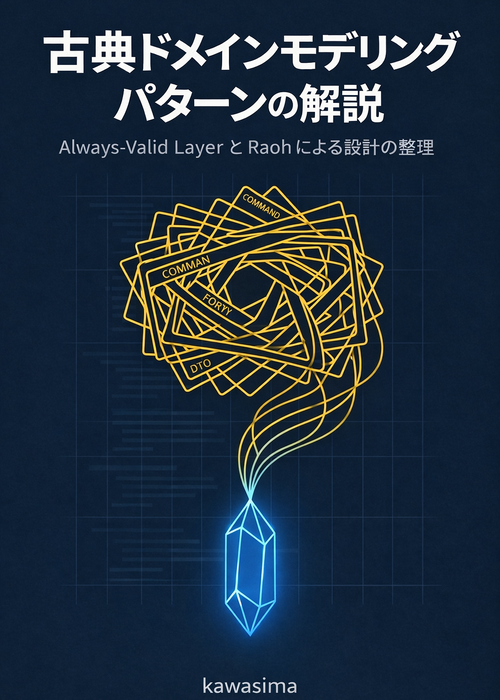
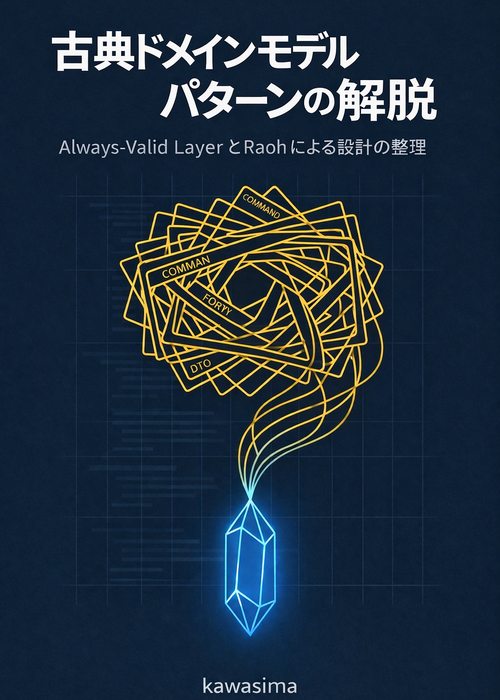
改善: ドキュメント内の「古典ドメインモデリングパターン」を「古典ドメインモデルパターン」に修正

Changed region(s): [[0.09, 0.03, 0.93, 0.24], [0.51, 0.27, 0.54, 0.3]]

diff --git a/books/ddd-detachment/part0-preface.md b/books/ddd-detachment/part0-preface.md
@@ -4,7 +4,7 @@ title: "はじめに"
 
 ## 本書について
 
-本書は、Java Web アプリケーションで広く使われている「古典ドメインモデリングパターン」——`@Entity` がドメインモデルを兼ね、Bean Validation がバリデーションを担い、レイヤー間を専用 DTO で詰め替えるという構成——で生じる「モデル増殖」「詰め替え過剰」「ドメインモデルの肥大化」という問題を診断し、解消するための設計書です。題材はミールス宅配サービスという架空のドメインで、実装のサンプルコードを通して段階的に考え方を示していきます。
+本書は、Java Web アプリケーションで広く使われている「古典ドメインモデルパターン」——`@Entity` がドメインモデルを兼ね、Bean Validation がバリデーションを担い、レイヤー間を専用 DTO で詰め替えるという構成——で生じる「モデル増殖」「詰め替え過剰」「ドメインモデルの肥大化」という問題を診断し、解消するための設計書です。題材はミールス宅配サービスという架空のドメインで、実装のサンプルコードを通して段階的に考え方を示していきます。
 
 この構成はドメイン駆動設計（DDD）そのものではなく、DDD の戦術パターンを Spring Boot で実装する際に広まった慣習の集積です。本書が問い直すのはその慣習であり、「ユビキタス言語でドメインをモデリングする」「業務の概念を型で表現する」というDDDの本質は、むしろ本書の土台にあります。「バリデーションの知識」「永続化の知識」「型変換の知識」がそれぞれあるべき場所に置かれたとき、ドメインモデルはただの `record` でよくなる——その到達点に向かう道筋を示します。
 
@@ -12,7 +12,7 @@ title: "はじめに"
 
 本書は次のような方を想定しています。
 
-- 古典ドメインモデリングパターンを採用した Spring Boot プロジェクトで、「Form」「Command」「Entity」が増え続けて詰め替えコードに疲弊している方
+- 古典ドメインモデルパターンを採用した Spring Boot プロジェクトで、「Form」「Command」「Entity」が増え続けて詰め替えコードに疲弊している方
 - ドメインモデルに `@Entity`・`@NotNull`・状態チェックの `if` が積み重なり、責務の整理に悩んでいる方
 - `record` と `sealed interface` を使った設計を実務でどう活かすか探している方
 - 「ビジネスロジックはドメイン層へ」という原則を、実装の判断基準まで落とし込みたい方
@@ -32,7 +32,7 @@ title: "はじめに"
 
 本書は13章と付録で構成されています。
 
-- **「問題の正体」（1〜2章）**: 古典ドメインモデリングパターンがどう見えるか、そこに潜む問題は何かを整理します。
+- **「問題の正体」（1〜2章）**: 古典ドメインモデルパターンがどう見えるか、そこに潜む問題は何かを整理します。
 - **「Parse, Don't Validate」（3〜5章）**: Bean Validation の限界と、パースしてバリデーションと型変換を同時に行う Raoh デコーダのアプローチを示します。
 - **「Always-Valid Layer」（6〜8章）**: 「常に正しいデータだけが流れる層」という切り口から、状態遷移の型表現と、関心を分離したドメインモデル（record）を示します。
 - **「結合のバランス」（9〜11章）**: レイヤー間の詰め替え戦略と結合強度・距離の軸を整理し、デコーダがレイヤー間の接点として機能することを示します。
@@ -51,4 +51,4 @@ title: "はじめに"
 
 ---
 
-それでは、古典ドメインモデリングパターンがどのように見えるか——次章から確認していきましょう。
+それでは、古典ドメインモデルパターンがどのように見えるか——次章から確認していきましょう。

diff --git a/books/ddd-detachment/part1-ch01-typical-spring-ddd.md b/books/ddd-detachment/part1-ch01-typical-spring-ddd.md
@@ -1,5 +1,5 @@
 ---
-title: "古典ドメインモデリングパターン"
+title: "古典ドメインモデルパターン"
 ---
 
 「ドメイン駆動設計を意識して実装しているのに、コードが複雑になっていく一方だ」——そんな経験はありませんか？
@@ -18,13 +18,13 @@ title: "古典ドメインモデリングパターン"
 
 これらを組み合わせることで、「ドメインモデルはただの `record` でいい」という状態——バリデーションも永続化も状態チェックも知らない純粋なデータ構造——が実現できます。
 
-まず、古典ドメインモデリングパターンがどのように見えるかを確認しましょう。
+まず、古典ドメインモデルパターンがどのように見えるかを確認しましょう。
 
 ---
 
-## 本書で「古典ドメインモデリングパターン」と呼ぶもの
+## 本書で「古典ドメインモデルパターン」と呼ぶもの
 
-本書のタイトルにある「古典ドメインモデリングパターン」は、次の3要素がセットになった構成を指します。
+本書のタイトルにある「古典ドメインモデルパターン」は、次の3要素がセットになった構成を指します。
 
 - `@Entity` がドメイン層のクラスに直接付与され、永続化の知識をドメインモデルが担っている
 - Bean Validation のフォームクラスを境界に置き、`@NotNull` などのアノテーションでバリデーションを表現している
@@ -55,7 +55,7 @@ title: "古典ドメインモデリングパターン"
 
 ---
 
-このドメインを、古典ドメインモデリングパターンで実装するとどうなるか見てみましょう。
+このドメインを、古典ドメインモデルパターンで実装するとどうなるか見てみましょう。
 
 ## 典型的なレイヤー構成
 

diff --git a/books/ddd-detachment/part5-ch13-decision-criteria.md b/books/ddd-detachment/part5-ch13-decision-criteria.md
@@ -115,7 +115,7 @@ flowchart TD
 
 この分離が実現できると、次の変更が最小の修正で済みます。プランの種類が増えたとき、デコーダを追加し、sealed interface に permits を追加します。永続化の方法が変わったとき、リポジトリ実装だけを書き換えます。プレゼンテーション層の要件が変わったとき、Controller 側のデコーダだけを調整します。
 
-「古典ドメインモデリングパターン」が課していた制約——ドメインモデルが永続化・バリデーション・状態管理のすべてを背負う——から解脱することが、この本の目的でした。
+「古典ドメインモデルパターン」が課していた制約——ドメインモデルが永続化・バリデーション・状態管理のすべてを背負う——から解脱することが、この本の目的でした。
 
 ---
 

diff --git a/books/ddd-detachment/part3-ch06-always-valid-layer.md b/books/ddd-detachment/part3-ch06-always-valid-layer.md
@@ -4,7 +4,7 @@ title: "Always-Valid Layer という切り口"
 
 ## 「ビジネスロジック」とは何か
 
-古典ドメインモデリングパターンの文脈で「ビジネスロジックはドメイン層に置く」という言葉をよく聞きます。しかしいざ実装しようとすると、「これはビジネスロジックか？」という疑問が生まれます。
+古典ドメインモデルパターンの文脈で「ビジネスロジックはドメイン層に置く」という言葉をよく聞きます。しかしいざ実装しようとすると、「これはビジネスロジックか？」という疑問が生まれます。
 
 - 注文の合計金額を計算する → ビジネスロジック？
 - 配送先住所のフォーマットを検証する → ビジネスロジック？
